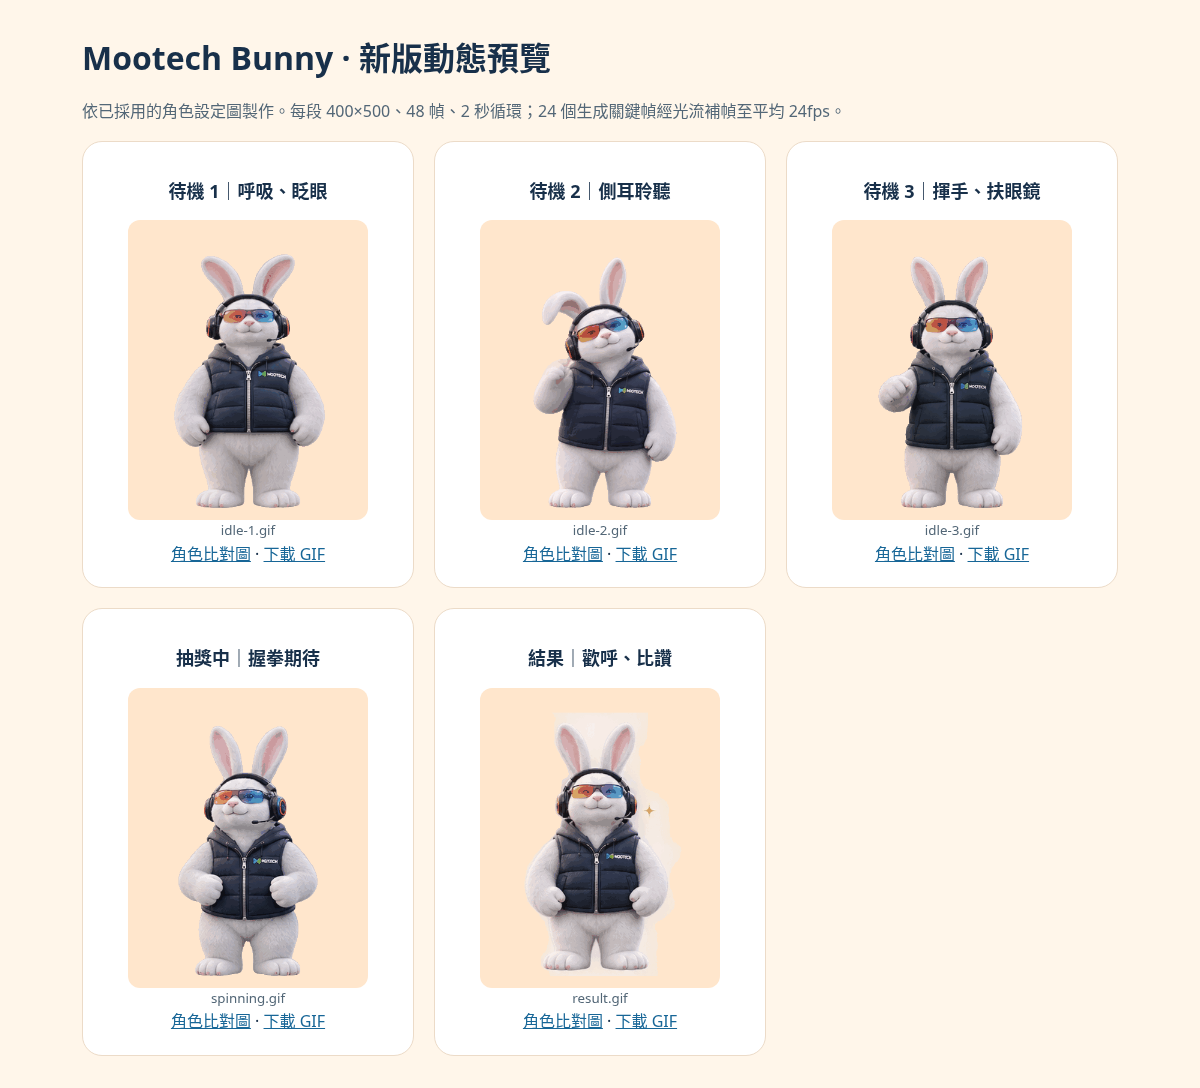
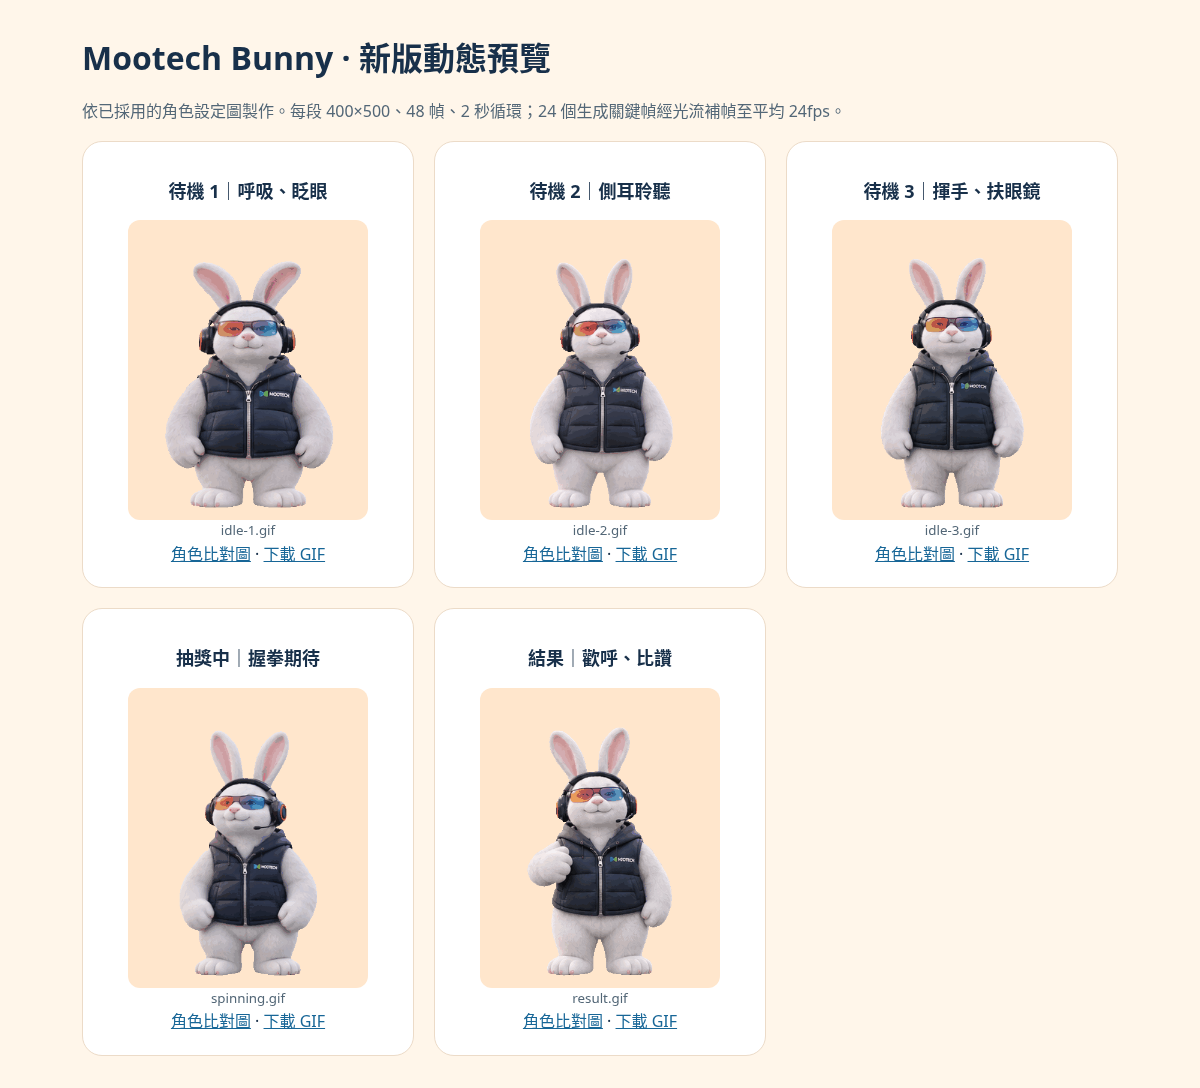
art: finalize animation previews and checked delivery records

diff --git a/event/20261111_lucky_wheel/DELIVERY_CHECKLIST.md b/event/20261111_lucky_wheel/DELIVERY_CHECKLIST.md
@@ -62,7 +62,7 @@
 | ☑ | D02 | idle-2 | 400×500 gif≥24 | `assets/img/mascot/idle-2.gif` | 0e22a5f | ☐ |
 | ☑ | D03 | idle-3 | 400×500 gif≥24 | `assets/img/mascot/idle-3.gif` | ab7eab9 | ☐ |
 | ☑ | D04 | spinning | 400×500 gif≥24 | `assets/img/mascot/spinning.gif` | a3b6cbf | ☐ |
-| ☐ | D05 | result | 400×500 gif≥24 | `assets/img/mascot/result.gif` | | ☐ |
+| ☑ | D05 | result | 400×500 gif≥24 | `assets/img/mascot/result.gif` | 37e00d8 | ☐ |
 
 ## E. 吉祥物附件（10）
 
@@ -74,12 +74,12 @@
 | ☑ | E02 | idle-2 PNG 序列幀 | 400×500 frames≥24 | `source/mascot-frames/idle-2/` | 0e22a5f | ☐ |
 | ☑ | E03 | idle-3 PNG 序列幀 | 400×500 frames≥24 | `source/mascot-frames/idle-3/` | ab7eab9 | ☐ |
 | ☑ | E04 | spinning PNG 序列幀 | 400×500 frames≥24 | `source/mascot-frames/spinning/` | a3b6cbf | ☐ |
-| ☐ | E05 | result PNG 序列幀 | 400×500 frames≥24 | `source/mascot-frames/result/` | | ☐ |
+| ☑ | E05 | result PNG 序列幀 | 400×500 frames≥24 | `source/mascot-frames/result/` | 37e00d8 | ☐ |
 | ☑ | E06 | idle-1 關鍵幀 vs 角色設定圖 | — | `source/mascot-compare/idle-1.{png,webp}` | 47dd674 | ☐ |
 | ☑ | E07 | idle-2 關鍵幀 vs 角色設定圖 | — | `source/mascot-compare/idle-2.{png,webp}` | 0e22a5f | ☐ |
 | ☑ | E08 | idle-3 關鍵幀 vs 角色設定圖 | — | `source/mascot-compare/idle-3.{png,webp}` | ab7eab9 | ☐ |
 | ☑ | E09 | spinning 關鍵幀 vs 角色設定圖 | — | `source/mascot-compare/spinning.{png,webp}` | a3b6cbf | ☐ |
-| ☐ | E10 | result 關鍵幀 vs 角色設定圖 | — | `source/mascot-compare/result.{png,webp}` | | ☐ |
+| ☑ | E10 | result 關鍵幀 vs 角色設定圖 | — | `source/mascot-compare/result.{png,webp}` | 37e00d8 | ☐ |
 
 ## F. 程式路徑（1）
 

diff --git a/event/20261111_lucky_wheel/ART_DELIVERY.md b/event/20261111_lucky_wheel/ART_DELIVERY.md
@@ -6,7 +6,7 @@
 
 - 21 張靜態 SVG、三語標題與六組盤面色票：`6a34f07`。
 - 角色設定圖：`reference/rabbit-turnaround.png`，`6a34f07`；使用者已採用此設定。
-- 5 個透明循環 GIF，均 400×500、48 幀、2 秒；實測檔案 1.24–1.43MB。
+- 5 個透明循環 GIF，均 400×500、48 幀、2 秒；實測檔案 1.19–1.40MB。
 - 240 張含 alpha 的 PNG：`source/mascot-frames/`。
 - 10 張 1024×1536、3×4 原始序列圖：`source/mascot-sheets/`。
 - 5 張關鍵幀與角色設定圖並排比對：`source/mascot-compare/`。
@@ -14,11 +14,11 @@
 
 | 動作 | GIF／PNG／比對圖 commit |
 |---|---|
-| idle-1：呼吸眨眼 | ee11803 |
-| idle-2：側耳聆聽 | 2b528e9 |
-| idle-3：揮手扶眼鏡 | 8124547 |
-| spinning：握拳期待 | afc4b6b |
-| result：歡呼比讚 | 8971110 |
+| idle-1：呼吸眨眼 | 47dd674 |
+| idle-2：側耳聆聽 | 0e22a5f |
+| idle-3：揮手扶眼鏡 | ab7eab9 |
+| spinning：握拳期待 | a3b6cbf |
+| result：歡呼比讚 | 37e00d8 |
 
 每個動作包含 24 個生成關鍵幀，利用光流補幀為 48 幀。GIF 以 40／50ms 延遲組合達到平均 24fps；暖色 matte 為 #FFE6CC，落地基準 y=480，歡呼有刻意的 10px 離地位移。這些是 AI 生成序列，不是綁骨骼的 3D 動畫；配件小字、毛髮與姿態可能有細微逐幀變動，需以動態預覽做視覺審核。
 
